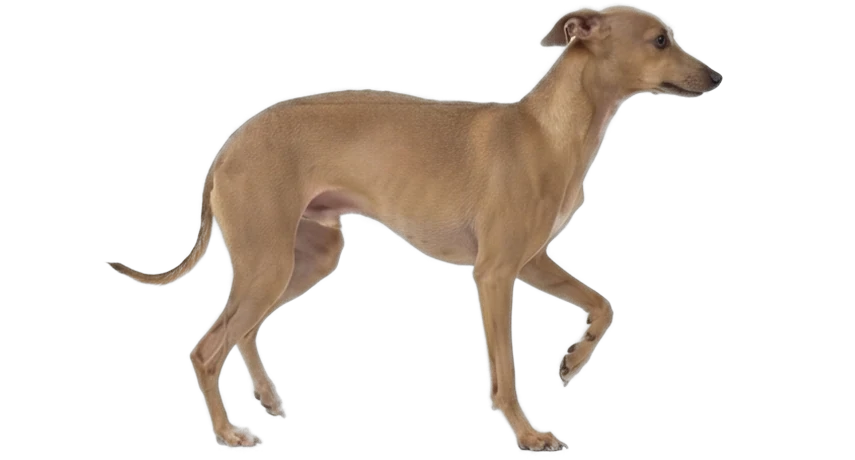
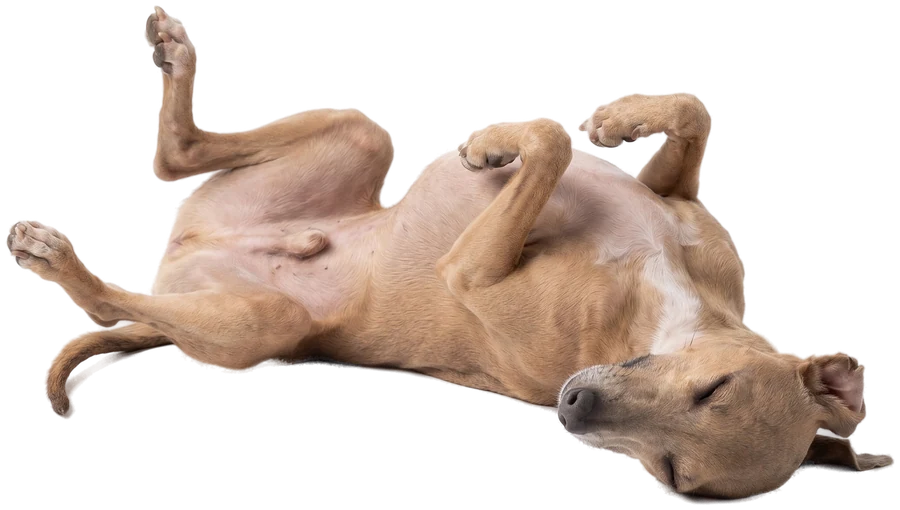
v0.3.7
- 프레임별 종횡비 적용으로 벽/천장 강아지 찌부 현상 수정
- 이탈리안 그레이하운드 rest 이미지 교체(AI 누끼)
- 인쇄 시 강아지 숨김(@user print)

diff --git a/content.js b/content.js
@@ -16,23 +16,32 @@
 
   // 디코드된 프레임 보관(GC 방지 → src 교체 시 항상 캐시에서 즉시 표시)
   let preloadCache = [];
+  // src → "W / H". 프레임마다 자연 종횡비가 다르므로(특히 '재미': 1.06~1.53)
+  // '지금 보여주는 그 프레임'의 비율로 박스를 맞춰야 늘어남/찌부가 없다.
+  let ratioBySrc = Object.create(null);
 
-  // 자연 크기를 확보하면 강아지 종횡비를 고정한다.
-  // 이렇게 해두면 walk 프레임 교체 직후 아직 디코드 안 된 찰나에도 박스 가로폭이
-  // 0으로 붕괴하지 않는다(= 벽에서 '1자'로 찌부되는 현상 방지).
-  function lockAspect(im) {
-    if (img && im && im.naturalWidth && im.naturalHeight) {
-      img.style.aspectRatio = im.naturalWidth + " / " + im.naturalHeight;
-    }
+  // <img>에 프레임을 건다. 그 프레임의 종횡비를 알면 박스도 즉시 그 비율로 고정한다.
+  // 이렇게 프레임별로 맞춰야 object-fit:fill이 다른 비율 이미지를 뭉개는 일이 없고,
+  // 아직 디코드 안 된 찰나에도 박스 가로폭이 0으로 붕괴하지 않는다('1자' 찌부 방지).
+  function showFrame(src) {
+    if (!img) return;
+    img.src = src;
+    const r = ratioBySrc[src];
+    if (r) img.style.aspectRatio = r;
   }
 
-  // 현재 강아지의 REST+WALK 프레임을 미리 받아 디코드까지 강제.
+  // 현재 강아지의 REST+WALK 프레임을 미리 받아 디코드까지 강제 + 프레임별 종횡비 기록.
   function preloadFrames() {
     preloadCache = [REST, ...WALK].map((src) => {
       const im = new Image();
       im.src = src;
       (im.decode ? im.decode() : Promise.resolve())
-        .then(() => lockAspect(im))
+        .then(() => {
+          if (!im.naturalWidth || !im.naturalHeight) return;
+          ratioBySrc[src] = im.naturalWidth + " / " + im.naturalHeight;
+          // 지금 화면에 떠 있는 프레임이면 비율도 곧바로 반영
+          if (img && img.src === src) img.style.aspectRatio = ratioBySrc[src];
+        })
         .catch(() => {});
       return im;
     });
@@ -44,7 +53,7 @@
     REST = url(`assets/${p}-rest.webp`);
     WALK = [1, 2, 3, 4].map((n) => url(`assets/${p}-walk${n}.webp`));
     preloadFrames(); // 새 강아지 프레임 미리 디코드 + 종횡비 갱신
-    if (img && !walking) img.src = REST;
+    if (img && !walking) showFrame(REST);
   }
 
   let wrap = null,
@@ -106,9 +115,20 @@
     }
   }
 
+  // 인쇄물엔 강아지가 안 찍히게 한다. 화면에선 보이지만 @media print에서만 숨김.
+  // (토글 상태와 무관하게 항상 적용 = '안보이게하기'를 안 해도 프린트엔 안 나옴)
+  function injectPrintHide() {
+    if (document.getElementById("__aingan_dog_pstyle")) return;
+    const st = document.createElement("style");
+    st.id = "__aingan_dog_pstyle";
+    st.textContent = "@media print{#__aingan_dog{display:none!important}}";
+    (document.head || document.documentElement).appendChild(st);
+  }
+
   function makePet() {
     if (!TOP || wrap || !document.body) return;
     document.getElementById("__aingan_dog")?.remove(); // 옛/중복 인스턴스 잔재(확장 리로드 등) 제거 → 강아지 한 마리만
+    injectPrintHide(); // 인쇄 시 강아지 숨김 규칙 주입
     wrap = document.createElement("div");
     wrap.id = "__aingan_dog";
     // 발(이미지 하단 중앙)이 (left,top)에 오도록 translate(-50%,-100%)
@@ -116,11 +136,14 @@
       "position:fixed;left:0;top:0;z-index:2147483600;pointer-events:none;" +
       "transform:translate(-50%,-100%);will-change:left,top;";
     img = document.createElement("img");
-    img.src = REST;
     img.draggable = false;
+    // object-fit:contain + 하단 정렬 = 박스 비율이 프레임과 잠깐 어긋나도
+    // 이미지를 뭉개지 않고 여백을 두며, 발은 항상 바닥(하단 중앙)에 붙는다.
     img.style.cssText =
-      "display:block;width:auto;transform-origin:50% 100%;filter:drop-shadow(0 5px 4px rgba(0,0,0,.18));";
+      "display:block;width:auto;object-fit:contain;object-position:50% 100%;" +
+      "transform-origin:50% 100%;filter:drop-shadow(0 5px 4px rgba(0,0,0,.18));";
     img.style.height = petSize + "px";
+    showFrame(REST); // 첫 프레임(비율은 preload 디코드 시 반영)
     wrap.appendChild(img);
     document.body.appendChild(wrap);
     preloadFrames(); // 기본(치즈) 강아지 프레임도 미리 디코드 + 종횡비 고정
@@ -175,7 +198,7 @@
     if (!wrap) return;
     walking = true;
     phase = (phase + 1) % SEQ.length;
-    img.src = WALK[SEQ[phase]];
+    showFrame(WALK[SEQ[phase]]);
     advance();
     place();
     img.animate(
@@ -189,7 +212,7 @@
     clearTimeout(restTimer);
     restTimer = setTimeout(() => {
       walking = false;
-      if (img) img.src = REST; // 그 자리(벽이든 천장이든)에 쉼
+      showFrame(REST); // 그 자리(벽이든 천장이든)에 쉼
     }, 600);
   }
 